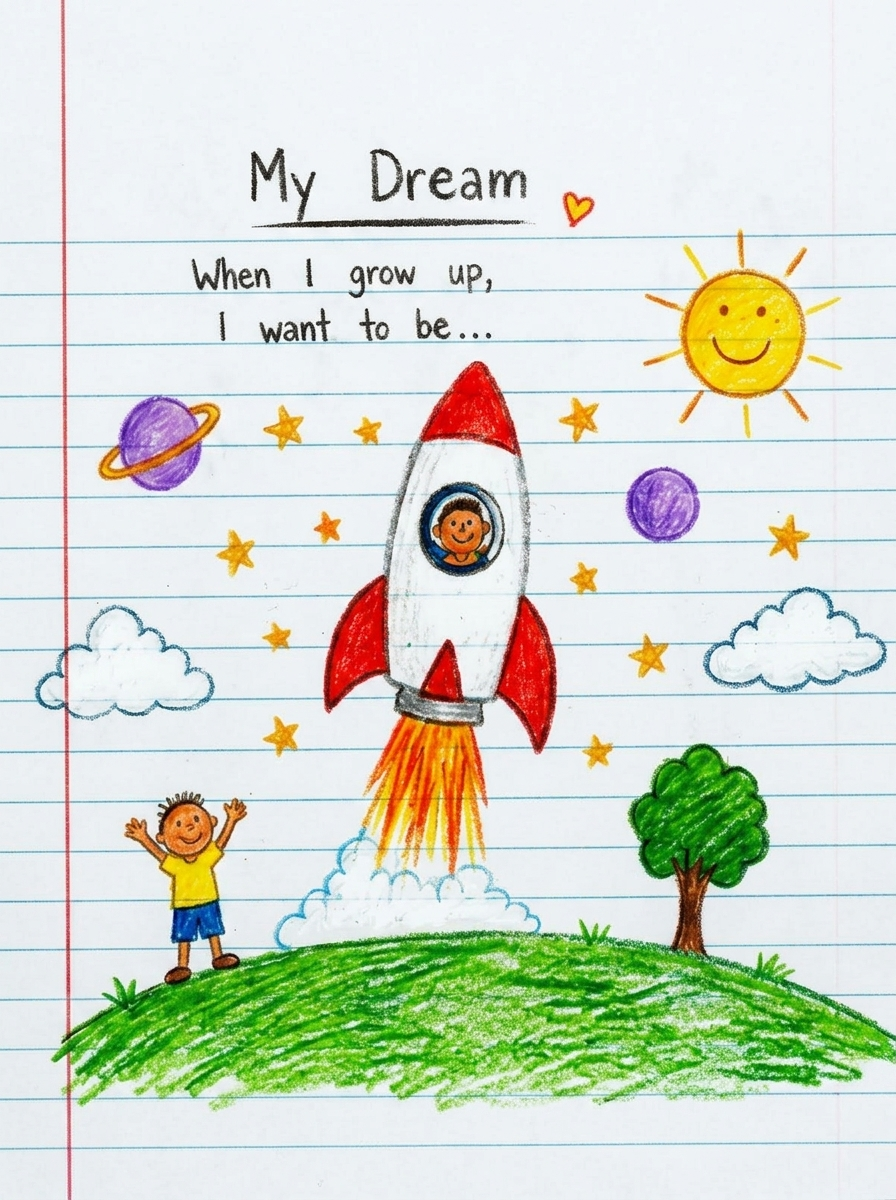
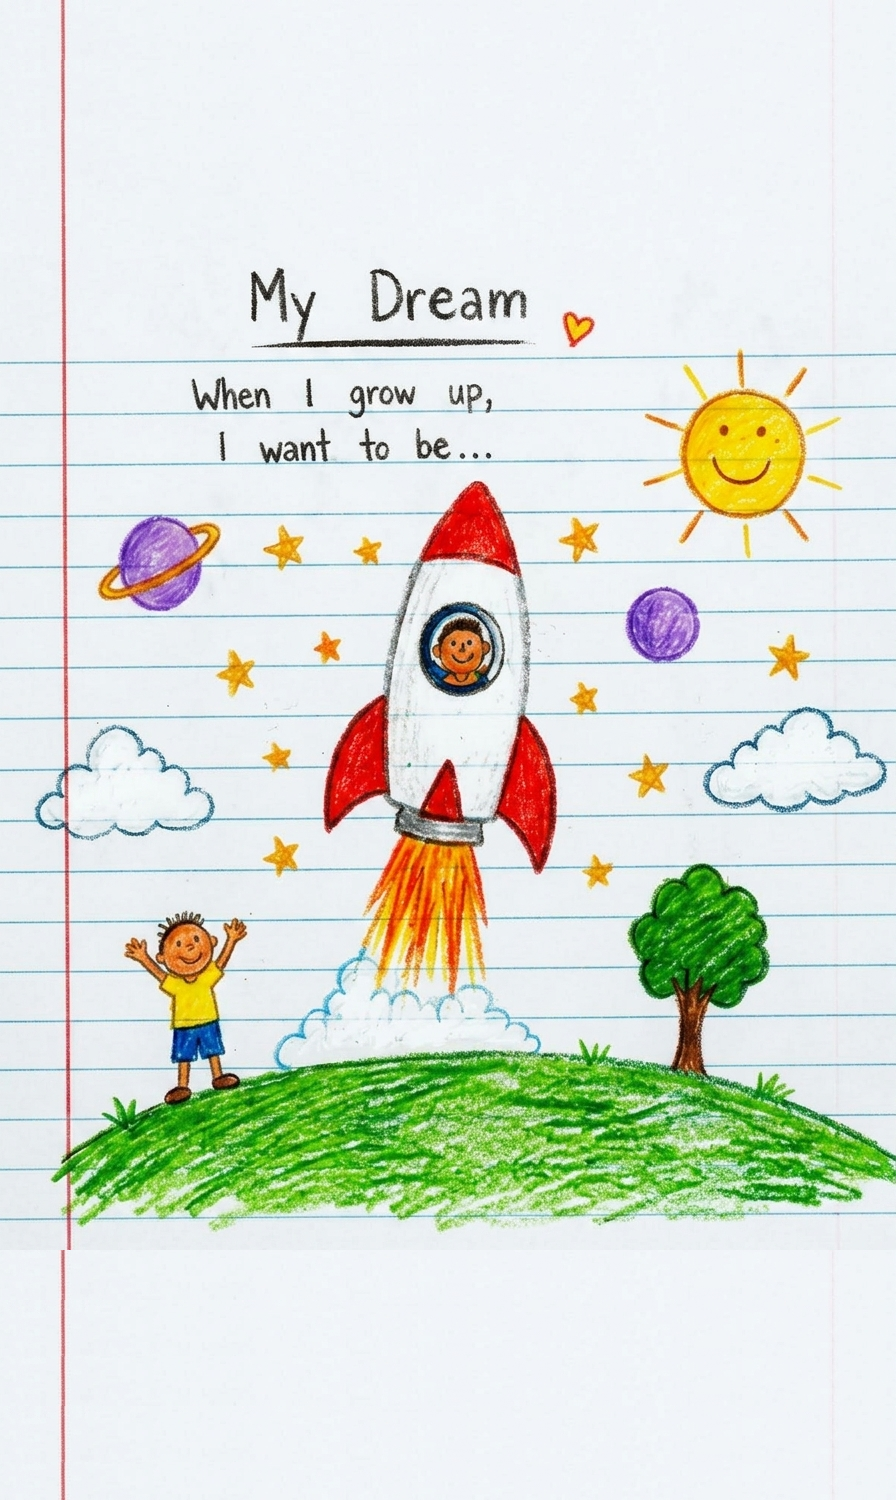
Eliminate blank white spaces with full-bleed lined notebook artwork and object-fit cover

diff --git a/app/globals.css b/app/globals.css
@@ -547,7 +547,7 @@ body {
     0 0 0 1px rgba(255, 255, 255, 0.25);
 }
 
-/* Left Side: Horizontal Image Column (HD Portrait Crayon Drawing) */
+/* Left Side: Horizontal Image Column (HD Full-Bleed Lined Notebook) */
 .cause-card-image-col {
   background: #FFFFFF;
   position: relative;
@@ -560,10 +560,9 @@ body {
 .cause-card-photo {
   width: 100%;
   height: 100%;
-  object-fit: contain;
+  object-fit: cover;
   object-position: center;
   display: block;
-  background: #FFFFFF;
 }
 
 /* Right Side: Light cyan/blue background matching reference */

diff --git a/app/page.js b/app/page.js
@@ -235,7 +235,7 @@ export default function HomePage() {
               {/* Left Side: Full Horizontal Image */}
               <div className="cause-card-image-col">
                 <img
-                  src="/dream_rocket_sketch.png?v=portrait_1"
+                  src="/dream_rocket_sketch.png?v=fullbleed_1"
                   alt="My Dream child rocket drawing"
                   className="cause-card-photo"
                 />
